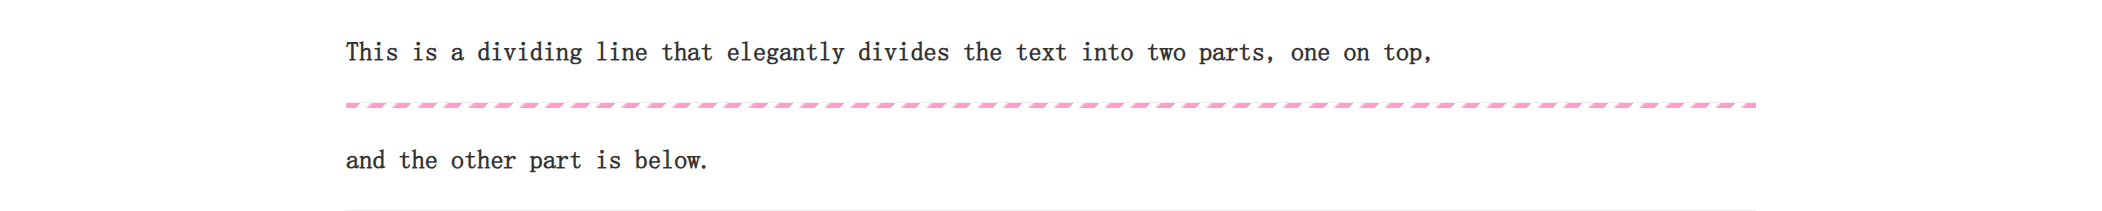
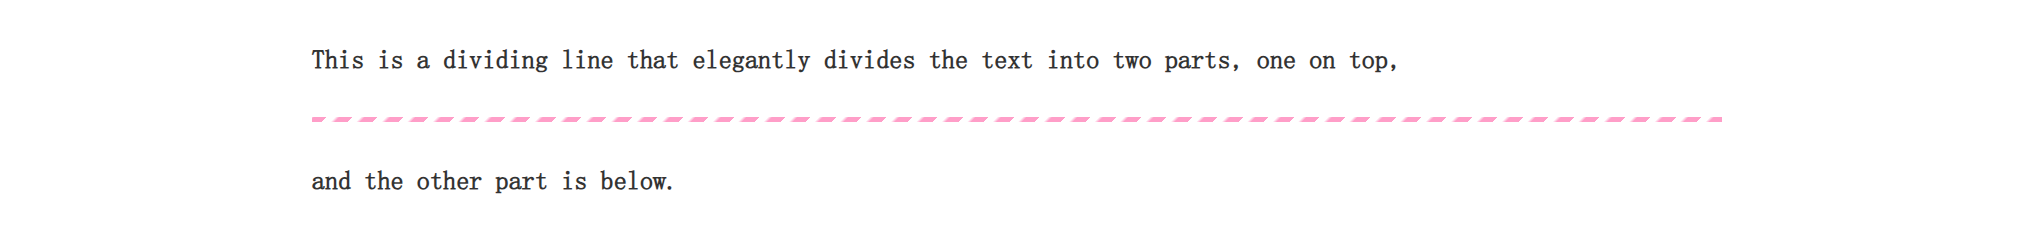
Update 去除分割线默认框线

Changed region(s): [[0.1549, 0.1991, 0.6814, 0.3128], [0.1549, 0.4834, 0.8673, 0.5118], [0.1549, 0.7109, 0.3407, 0.8246]]

diff --git a/pink-fairy.css b/pink-fairy.css
@@ -127,7 +127,8 @@ hr {
     transparent 12px
   );                /* 斜向粉红条纹 */
   height: 3px;      /* 分割线高度 */
-  margin: 25px, 0;  /* 分割线外边距 */
+  margin: 25px 0;   /* 分割线外边距 */
+  border: none;     /* 去除默认边框 */
 }
 
 /*

diff --git a/README.md b/README.md
@@ -108,3 +108,5 @@
 + 2025-10-21（V2.0）：将主要文本字体由『新宋体』替换为『仿宋』，在字体样式几乎相同的情况下，解决了在 typora 渲染规则下文本不完全等宽的问题，同时新字体更粗一些，便于观看。
 + 2025-10-22（V2.1）：删除代码块溢出时的水平滚动条。
 + 2025-10-11（V3.0）：修改页面滚动条样式。
++ 2025-11-27（V3.1）：去除分割线默认框线
+
